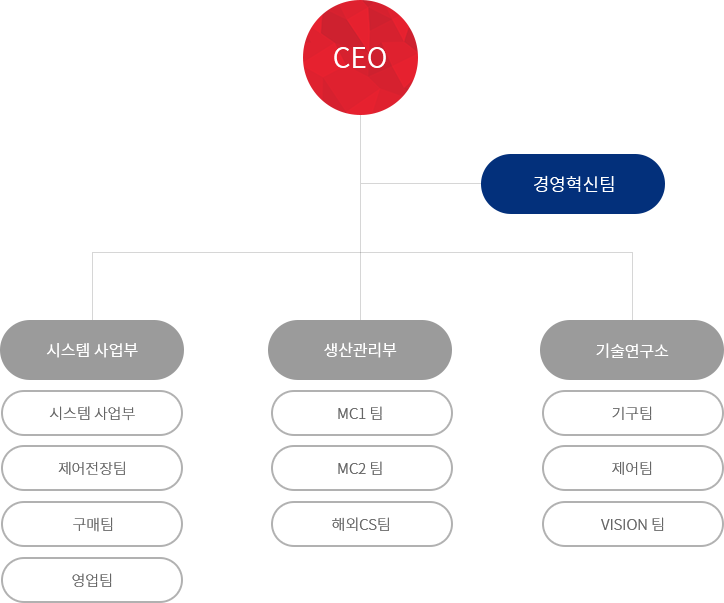
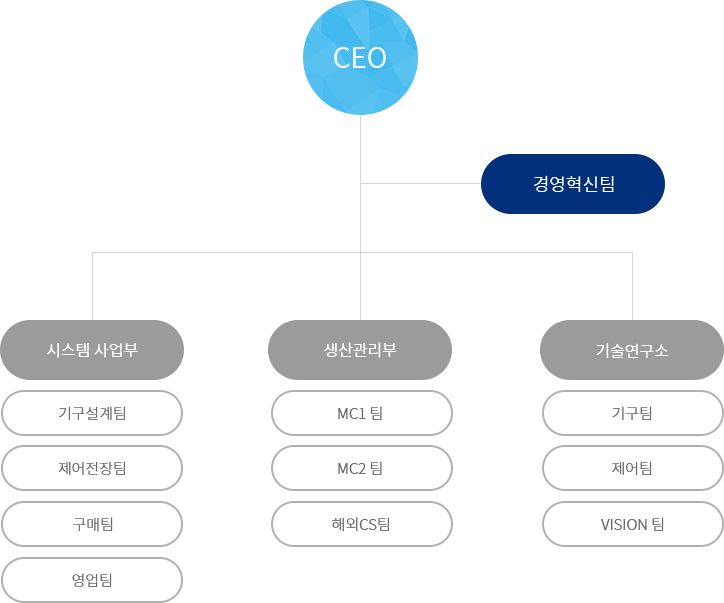
조직도 이미지 교체 및 헤더쪽 링크

Changed region(s): [[0.395, 0.0, 0.5773, 0.209], [0.0912, 0.6567, 0.1823, 0.7164]]

diff --git a/recruit/walfare.php b/recruit/walfare.php
@@ -24,7 +24,7 @@
 							<div class="dropdown-menu" aria-labelledby="depth-list">
 								<a class="dropdown-item" href="/recruit/recruit_person.php">인재상</a>
 								<a class="dropdown-item active" href="/recruit/walfare.php">복지제도</a>
-								<a class="dropdown-item" href="#">채용안내</a>
+								<a class="dropdown-item" href="/recruit/recruitment.php">채용안내</a>
 							</div> 
 						</div>
 					</li>

diff --git a/recruit/recruit_person.php b/recruit/recruit_person.php
@@ -24,7 +24,7 @@
 							<div class="dropdown-menu" aria-labelledby="depth-list">
 								<a class="dropdown-item active" href=/recruit/recruit_person.php>인재상</a>
 								<a class="dropdown-item" href="/recruit/walfare.php">복지제도</a>
-								<a class="dropdown-item" href="#">채용안내</a>
+								<a class="dropdown-item" href="/recruit/recruitment.php">채용안내</a>
 							</div> 
 						</div>
 					</li>

diff --git a/inc/header.php b/inc/header.php
@@ -76,7 +76,7 @@
 					<ul>
 						<li><a href="/recruit/recruit_person.php">인재상<span></span></a></li>
 						<li><a href="/recruit/walfare.php">복지제도<span></span></a></li>
-						<li><a href="#">채용안내<span></span></a></li>
+						<li><a href="/recruit/recruitment.php">채용안내<span></span></a></li>
 					</ul>
 				</li>
 				<li>

diff --git a/inc/aside.php b/inc/aside.php
@@ -84,7 +84,7 @@
 							<a href="/recruit/walfare.php">복지제도</a>
 						</li>
 						<li> 
-							<a href="#">채용안내</a>
+							<a href="/recruit/recruitment.php">채용안내</a>
 						</li>
 					</ul>
 				</li>
